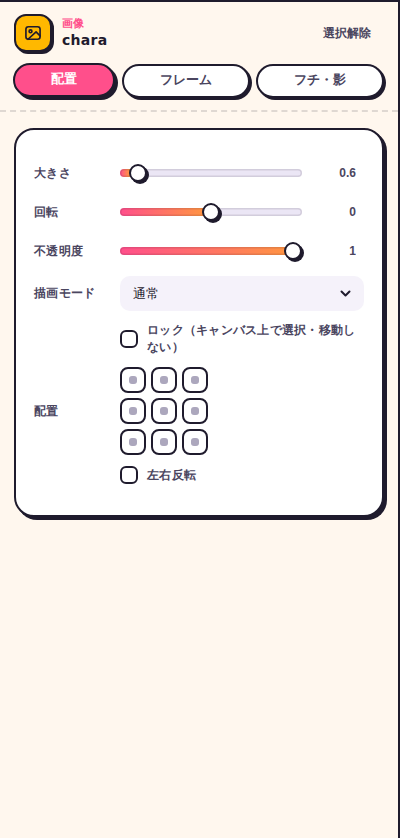
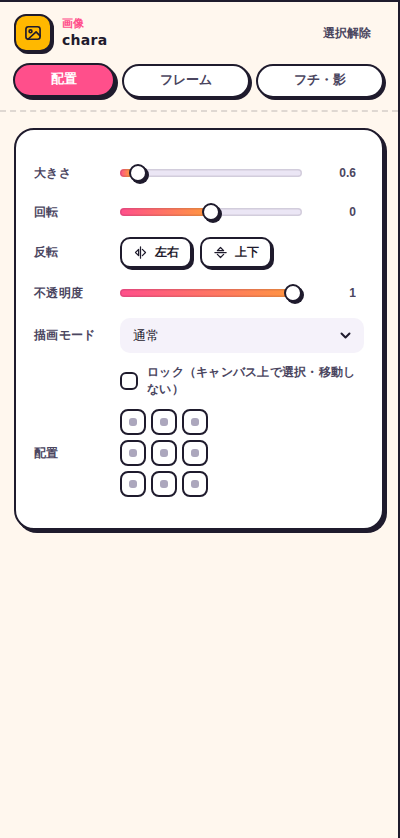
画像の反転：上下反転を追加し、左右・上下を配置タブのボタンに
- 配置タブの「回転」の下に「反転」（左右／上下）ボタン。反転中はボタンが点灯
- キーボード H（左右）・V（上下）、右クリックメニューからも反転
- 切り抜きフレーム付きでも、フレームはそのままで中の絵だけ反転（フレーム調整モードも対応）
- テスト追加（test_flip）、説明書と画像を更新

Claude-Session: https://claude.ai/code/session_017iaXbVyubLxKotPXWxBsUr

diff --git a/index.html b/index.html
@@ -11,7 +11,7 @@
 <link rel="preconnect" href="https://fonts.googleapis.com">
 <link rel="preconnect" href="https://fonts.gstatic.com" crossorigin>
 <link href="https://fonts.googleapis.com/css2?family=Inter:wght@400;500;600;700&family=M+PLUS+Rounded+1c:wght@400;500;700;800&family=Noto+Sans+JP:wght@400;700;900&display=swap" rel="stylesheet">
-<link rel="stylesheet" href="css/app.css?v=8f9c12eb">
+<link rel="stylesheet" href="css/app.css?v=99f61a45">
 </head>
 <body class="mode-thumb">
 <header class="app-head">
@@ -287,30 +287,30 @@
   <p>フォントファイル（.ttf / .otf）やプロジェクト（.json）はどこに落としてもOK</p>
 </div>
 
-<script src="js/core.js?v=8f9c12eb"></script>
-<script src="js/bind.js?v=8f9c12eb"></script>
-<script src="js/presets.js?v=8f9c12eb"></script>
-<script src="js/data/font-list.js?v=8f9c12eb"></script>
-<script src="js/fonts.js?v=8f9c12eb"></script>
-<script src="js/controls.js?v=8f9c12eb"></script>
-<script src="js/text-render.js?v=8f9c12eb"></script>
-<script src="js/preview.js?v=8f9c12eb"></script>
-<script src="js/colors.js?v=8f9c12eb"></script>
-<script src="js/history.js?v=8f9c12eb"></script>
-<script src="js/thumb/frames.js?v=8f9c12eb"></script>
-<script src="js/thumb/collage.js?v=8f9c12eb"></script>
-<script src="js/thumb/fx.js?v=8f9c12eb"></script>
-<script src="js/thumb/assets.js?v=8f9c12eb"></script>
-<script src="js/thumb/doc.js?v=8f9c12eb"></script>
-<script src="js/thumb/render.js?v=8f9c12eb"></script>
-<script src="js/thumb/overlay.js?v=8f9c12eb"></script>
-<script src="js/thumb/editmodes.js?v=8f9c12eb"></script>
-<script src="js/thumb/layers.js?v=8f9c12eb"></script>
-<script src="js/thumb/export.js?v=8f9c12eb"></script>
-<script src="js/thumb/inspector.js?v=8f9c12eb"></script>
-<script src="js/thumb/events.js?v=8f9c12eb"></script>
-<script src="js/mobile.js?v=8f9c12eb"></script>
-<script src="js/popups.js?v=8f9c12eb"></script>
-<script src="js/main.js?v=8f9c12eb"></script>
+<script src="js/core.js?v=99f61a45"></script>
+<script src="js/bind.js?v=99f61a45"></script>
+<script src="js/presets.js?v=99f61a45"></script>
+<script src="js/data/font-list.js?v=99f61a45"></script>
+<script src="js/fonts.js?v=99f61a45"></script>
+<script src="js/controls.js?v=99f61a45"></script>
+<script src="js/text-render.js?v=99f61a45"></script>
+<script src="js/preview.js?v=99f61a45"></script>
+<script src="js/colors.js?v=99f61a45"></script>
+<script src="js/history.js?v=99f61a45"></script>
+<script src="js/thumb/frames.js?v=99f61a45"></script>
+<script src="js/thumb/collage.js?v=99f61a45"></script>
+<script src="js/thumb/fx.js?v=99f61a45"></script>
+<script src="js/thumb/assets.js?v=99f61a45"></script>
+<script src="js/thumb/doc.js?v=99f61a45"></script>
+<script src="js/thumb/render.js?v=99f61a45"></script>
+<script src="js/thumb/overlay.js?v=99f61a45"></script>
+<script src="js/thumb/editmodes.js?v=99f61a45"></script>
+<script src="js/thumb/layers.js?v=99f61a45"></script>
+<script src="js/thumb/export.js?v=99f61a45"></script>
+<script src="js/thumb/inspector.js?v=99f61a45"></script>
+<script src="js/thumb/events.js?v=99f61a45"></script>
+<script src="js/mobile.js?v=99f61a45"></script>
+<script src="js/popups.js?v=99f61a45"></script>
+<script src="js/main.js?v=99f61a45"></script>
 </body>
 </html>

diff --git a/js/thumb/editmodes.js b/js/thumb/editmodes.js
@@ -15,7 +15,7 @@ const EDIT_MODES = {
     down(L, x, y){
       const G = frameGeom(L), [u, v] = frameLocal(L, x, y), px = DOC.w / tvCss / L.sc;
       const corner = [[-1, -1], [1, -1], [1, 1], [-1, 1]].some(([sx, sy]) => Math.hypot(u - sx * G.fw / 2, v - sy * G.fh / 2) < 14 * px);
-      const inImg = Math.abs((L.flip ? -u : u) + G.cxp - G.iw / 2) <= G.iw / 2 && Math.abs(v + G.cyp - G.ih / 2) <= G.ih / 2;
+      const inImg = Math.abs((L.flip ? -u : u) + G.cxp - G.iw / 2) <= G.iw / 2 && Math.abs((L.flipV ? -v : v) + G.cyp - G.ih / 2) <= G.ih / 2;
       if(!corner && !inImg) return null;
       return {sub: corner ? 'scale' : 'move', g0:G, fs0:L.frame.fs ?? 1, cx0:G.cxp / G.iw, cy0:G.cyp / G.ih, base:{x:L.x, y:L.y}, r0:Math.max(1, Math.hypot(u, v))};
     },
@@ -24,7 +24,7 @@ const EDIT_MODES = {
       // 開始時の位置を基準に計算する（画像は固定、フレームだけ動く）
       if(d.sub === 'move'){
         const [du, dv] = rotLocal(L, x - d.x0, y - d.y0);
-        L.frame.cx = r3(clamp(d.cx0 + du / L.sc * (L.flip ? -1 : 1) / G.iw, 0, 1)); L.frame.cy = r3(clamp(d.cy0 + dv / L.sc / G.ih, 0, 1));
+        L.frame.cx = r3(clamp(d.cx0 + du / L.sc * (L.flip ? -1 : 1) / G.iw, 0, 1)); L.frame.cy = r3(clamp(d.cy0 + dv / L.sc * (L.flipV ? -1 : 1) / G.ih, 0, 1));
       }else{
         const [u, v] = frameLocal(Object.assign({}, L, d.base), x, y);
         L.frame.fs = r3(clamp(d.fs0 * Math.hypot(u, v) / d.r0, 0.1, 1));
@@ -37,7 +37,7 @@ const EDIT_MODES = {
     overlay(ctx, L, f, dpr){
       const G = frameGeom(L);
       ctx.save(); ctx.translate(L.x * f, L.y * f); ctx.rotate((L.rot || 0) * PI / 180); ctx.scale(L.sc * f, L.sc * f);
-      ctx.save(); if(L.flip) ctx.scale(-1, 1); ctx.globalAlpha = 0.38; ctx.drawImage(G.A.img, -G.cxp, -G.cyp, G.iw, G.ih); ctx.restore();
+      ctx.save(); if(L.flip || L.flipV) ctx.scale(L.flip ? -1 : 1, L.flipV ? -1 : 1); ctx.globalAlpha = 0.38; ctx.drawImage(G.A.img, -G.cxp, -G.cyp, G.iw, G.ih); ctx.restore();
       const k = 1 / (L.sc * f), hw = G.fw / 2, hh = G.fh / 2;
       ctx.lineWidth = 2 * dpr * k; ctx.strokeStyle = '#ffb800'; ctx.setLineDash([7 * dpr * k, 5 * dpr * k]); ctx.strokeRect(-hw, -hh, hw * 2, hh * 2); ctx.setLineDash([]);
       ctx.strokeStyle = 'rgba(255,255,255,.7)'; ctx.lineWidth = dpr * k; ctx.beginPath(); framePath(ctx, L.frame.shape, G.fw, G.fh, L.frame.r, L.frame.seed); ctx.stroke();

diff --git a/js/thumb/inspector.js b/js/thumb/inspector.js
@@ -29,6 +29,7 @@ const CFX_ROWS = (P, S) => [
 const SEL_ROWS = [
   {pg:'base', r:'@sc', l:'大きさ', min:0.05, max:10, step:0.01},
   {pg:'base', r:'@rot', l:'回転', min:-180, max:180, step:1},
+  {pg:'base', flips:true, l:'反転', show:'@type=image'},
   {pg:'fx', c:'@p.c', l:'色', show:'@type=fx'},
   {pg:'fx', r:'@p.n', l:'本数', min:20, max:300, step:1, show:'@kind=lines'},
   {pg:'fx', r:'@p.inner', l:'中心の空き', min:0.02, max:1.5, step:0.01, show:'@kind=lines'},
@@ -83,7 +84,6 @@ const SEL_ROWS = [
   {pg:'base', r:'@bw', l:'横幅', min:100, max:1920, step:1, show:'@type=collage'},
   {pg:'base', r:'@bh', l:'高さ', min:100, max:1080, step:1, show:'@type=collage'},
   {pg:'base', btns:[['collageFill', 'monitor', '画面いっぱいにする']], show:'@type=collage'},
-  {pg:'base', chk:'@flip', l:'左右反転', show:'@type=image'},
   {pg:'frame', sub:'切り抜きフレーム', note:'図形で切り抜いて枠を付けます。形と枠のデザインは自由に組み合わせOK', show:'@type=image'},
   {pg:'frame', frpre:true, show:'@type=image'},
   {pg:'frame', shapes:true, l:'形', show:'@type=image'},
@@ -164,6 +164,7 @@ const drowPg = (r, bg) => `<div data-pg="${rowPg(r, bg)}">${drow(r)}</div>`;
 function drow(r){
   const sa = r.show ? ` data-dshow="${r.show}"` : '';
   if(r.layouts) return `<div class="row"${sa}><label>${r.l}</label><div class="seg shapes lays" data-dseg="@layout">${[2, 3, 4, 5, 6].flatMap(n => COLLAGE_LAYOUTS.filter(l => l[2](n)).map(([k, t]) => `<button data-v="${k}" data-dshow="@n=${n}" title="${t}"><img src="${collageIcon(k, n)}" alt="${t}"></button>`)).join('')}</div></div>`;
+  if(r.flips) return `<div class="row"${sa}><label>${r.l}</label><div class="crow flips"><button class="btn sm" data-flip="flip" title="左右反転（H）">${ic('fliph')}左右</button><button class="btn sm" data-flip="flipV" title="上下反転（V）">${ic('flipv')}上下</button></div></div>`;
   if(r.cells) return `<div class="cellBox"${sa}></div>`;
   if(r.cfxchips) return `<div${sa}><div class="subhead" style="margin-top:18px">ワンクリック効果</div><div class="pcats fxchips">${CELL_FX_CHIPS.map(([k, t]) => `<button data-cfx="${k}">${t}</button>`).join('')}</div></div>`;
   if(r.frpre){ const nm = Object.fromEntries(FRAME_PRESETS.map(p => [p[0], p[1]]));

diff --git a/js/thumb/layers.js b/js/thumb/layers.js
@@ -62,7 +62,8 @@ function showMenu(id, cx, cy){
     b('front', 'front', '最前面へ', 'Ctrl+Shift+]', '', i === n - 1) + b('up', 'up', '前面へ', 'Ctrl+]', '', i === n - 1) +
     b('down', 'down', '背面へ', 'Ctrl+[', '', i === 0) + b('back', 'back', '最背面へ', 'Ctrl+Shift+[', '', i === 0) + '<hr>' +
     b('dup', 'dup', '複製', 'Ctrl+D') + b('rename', 'pen', '名前を変更') + b('lock', L.locked ? 'unlock' : 'lock', L.locked ? 'ロックを解除' : 'ロック') +
-    b('eye', L.hidden ? 'eye' : 'eyeoff', L.hidden ? '表示する' : '隠す') + '<hr>' + b('del', 'trash', '削除', 'Delete', 'danger');
+    b('eye', L.hidden ? 'eye' : 'eyeoff', L.hidden ? '表示する' : '隠す') +
+    (L.type === 'image' ? '<hr>' + b('flip', 'fliph', '左右反転', 'H') + b('flipV', 'flipv', '上下反転', 'V') : '') + '<hr>' + b('del', 'trash', '削除', 'Delete', 'danger');
   m.dataset.lid = id; m.classList.add('show');
   const r = m.getBoundingClientRect();
   m.style.left = Math.min(cx, innerWidth - r.width - 8) + 'px'; m.style.top = Math.min(cy, innerHeight - r.height - 8) + 'px';
@@ -97,6 +98,7 @@ function layerAction(id, act){
   else if(act === 'front'){ DOC.layers.splice(i, 1); DOC.layers.push(L); }
   else if(act === 'back'){ DOC.layers.splice(i, 1); DOC.layers.unshift(L); }
   else if(act === 'eye') L.hidden = !L.hidden;
+  else if(act === 'flip' || act === 'flipV'){ if(L.type !== 'image') return; flipLayer(L, act); }
   else if(act === 'lock'){ L.locked = !L.locked; toast(L.locked ? `「${layerName(L)}」をロックしました（キャンバス上では選択されません）` : 'ロックを解除しました'); }
   else if(act === 'rename'){ startRename(id); return; }
   else if(act === 'dup'){
@@ -113,3 +115,10 @@ function layerAction(id, act){
   }
   syncDoc(); renderLayers(); docChanged(false);
 }
+
+// 画像の反転（key = 'flip' 左右／'flipV' 上下）。切り抜きフレームがあるときは、フレームの中の絵がその場で反転する
+function flipLayer(L, key){ L[key] = !L[key]; }
+document.addEventListener('click', e => {
+  const b = e.target.closest('[data-flip]'); const L = selLayer(); if(!b || !L || L.type !== 'image') return;
+  flipLayer(L, b.dataset.flip); syncDoc(); docChanged(false);
+});

diff --git a/js/thumb/frames.js b/js/thumb/frames.js
@@ -152,13 +152,13 @@ function frameGeom(L){
 /* フレームを動かしても、画像がキャンバス上で動かないようにレイヤーの位置を補正 */
 function frameCompensate(L, g0, base){
   const g1 = frameGeom(L); if(!g0 || !g1) return;
-  const dx = (g1.cxp - g0.cxp) * (L.flip ? -1 : 1) * L.sc, dy = (g1.cyp - g0.cyp) * L.sc, a = (L.rot || 0) * PI / 180;
+  const dx = (g1.cxp - g0.cxp) * (L.flip ? -1 : 1) * L.sc, dy = (g1.cyp - g0.cyp) * (L.flipV ? -1 : 1) * L.sc, a = (L.rot || 0) * PI / 180;
   const bx = base ? base.x : L.x, by = base ? base.y : L.y;
   L.x = bx + dx * Math.cos(a) - dy * Math.sin(a); L.y = by + dx * Math.sin(a) + dy * Math.cos(a);
 }
 function framedCanvas(L, f, live, cache){
   const A = ASSETS[L.asset], fr = L.frame, o = L.outline, need = L.sc * f;
-  const sk = JSON.stringify([L.asset, fr, o.w, o.c, L.flip]);
+  const sk = JSON.stringify([L.asset, fr, o.w, o.c, L.flip, L.flipV]);
   let e = cache.get(L.id);
   if(e && e.sk === sk && (live || Math.abs(e.k - need) / need < 0.02)) return e;
   const G = frameGeom(L), iw = G.iw, ih = G.ih;
@@ -219,7 +219,7 @@ function framedCanvas(L, f, live, cache){
     else stroke(2 * E, o.c);
   }
   x.save(); P(); x.clip();
-  if(L.flip) x.scale(-1, 1);
+  if(L.flip || L.flipV) x.scale(L.flip ? -1 : 1, L.flipV ? -1 : 1);
   x.drawImage(A.img, -G.cxp * need, -G.cyp * need, iw * need, ih * need);
   x.restore();
   if(st === 'sticker' && E > 0){ x.save(); P(); x.clip(); const g = x.createLinearGradient(-FW / 2, -FH / 2, FW * 0.1, FH * 0.1); g.addColorStop(0, 'rgba(255,255,255,.38)'); g.addColorStop(0.55, 'rgba(255,255,255,.08)'); g.addColorStop(0.56, 'rgba(255,255,255,0)'); x.fillStyle = g; x.fillRect(-FW / 2, -FH / 2, FW, FH); x.restore(); }

diff --git a/js/thumb/render.js b/js/thumb/render.js
@@ -30,13 +30,14 @@ function imageCanvas(L, f, live, cache){
   const A = ASSETS[L.asset]; if(!A) return null;
   if(L.frame && L.frame.shape && L.frame.shape !== 'none') return framedCanvas(L, f, live, cache);
   const need = L.sc * f, o = L.outline, ow = o.on ? o.w : 0;
-  const sk = [L.asset, o.on, o.w, o.c, L.flip].join('|');
+  const sk = [L.asset, o.on, o.w, o.c, L.flip, L.flipV].join('|');
   let e = cache.get(L.id);
   if(!(e && e.sk === sk && (live || Math.abs(e.k - need) / need < 0.02))){
     const iw = A.img.naturalWidth, ih = A.img.naturalHeight, r = ow * f, pad = Math.ceil(r) + 2;
     const cw = Math.max(1, Math.round(iw * need)), ch = Math.max(1, Math.round(ih * need));
     const c = mk(cw + pad * 2, ch + pad * 2), x = c.getContext('2d');
     if(L.flip){ x.translate(c.width, 0); x.scale(-1, 1); }
+    if(L.flipV){ x.translate(0, c.height); x.scale(1, -1); }
     if(r > 0){
       const t = tinted(A, o.c), n = Math.max(16, Math.min(56, Math.round(r * 1.5)));
       for(const rr of [r, r * 0.55]) for(let i = 0; i < n; i++){

diff --git a/js/core.js b/js/core.js
@@ -30,6 +30,8 @@ function toast(msg, err){
 const ICONS = {
   grid:'<rect x="3.5" y="4.5" width="17" height="15" rx="2.5"/><path d="M12 4.5v15M3.5 12h8.5"/>',
   crop:'<path d="M7 3v14h14"/><path d="M3 7h14v14"/>',
+  fliph:'<path d="M12 3v18"/><path d="M9 7 4 12l5 5z"/><path d="m15 7 5 5-5 5"/>',
+  flipv:'<path d="M3 12h18"/><path d="M7 9l5-5 5 5z"/><path d="m7 15 5 5 5-5"/>',
   dice:'<rect x="3.5" y="3.5" width="17" height="17" rx="4.5"/><circle cx="8.6" cy="8.6" r="1.2" fill="currentColor" stroke="none"/><circle cx="12" cy="12" r="1.2" fill="currentColor" stroke="none"/><circle cx="15.4" cy="15.4" r="1.2" fill="currentColor" stroke="none"/>',
   drop:'<path d="m14 7 3 3"/><path d="M16.4 4.2a2.2 2.2 0 0 1 3.2 3.2L17.5 9.5l-3-3z"/><path d="M14.5 6.5 6 15l-1 4 4-1 8.5-8.5"/>',
   image:'<rect x="3.5" y="4.5" width="17" height="15" rx="3"/><circle cx="9" cy="10" r="1.7"/><path d="m20.5 15.5-4.8-4.8L6 19.5"/>',

diff --git a/js/thumb/assets.js b/js/thumb/assets.js
@@ -1,7 +1,7 @@
 /* 楽ちんサムネメーカー：画像アセット（IndexedDBに保存）・画像や背景の追加 */
 /* ---------- 画像アセット（IndexedDBに保存） ---------- */
 // 画像レイヤーの初期値（白フチ・影・切り抜きフレームなし）
-const IMAGE_BASE = () => ({flip:false, outline:{on:true, w:10, c:'#ffffff'}, frame:FRAME_BASE(), shadow:{on:true, blur:30, y:14, a:0.45}});
+const IMAGE_BASE = () => ({flip:false, flipV:false, outline:{on:true, w:10, c:'#ffffff'}, frame:FRAME_BASE(), shadow:{on:true, blur:30, y:14, a:0.45}});
 const ASSETS = {};
 const loadImg = src => new Promise((res, rej) => { const i = new Image(); i.onload = () => res(i); i.onerror = rej; i.src = src; });
 const idbReq = r => new Promise((res, rej) => { r.onsuccess = () => res(r.result); r.onerror = () => rej(r.error); });

diff --git a/js/thumb/events.js b/js/thumb/events.js
@@ -311,6 +311,9 @@ async function openProjectFile(f){
       e.preventDefault(); const fwd = e.code === 'BracketRight';
       layerAction(L.id, e.shiftKey ? (fwd ? 'front' : 'back') : (fwd ? 'up' : 'down'));
     }
+    else if(!e.ctrlKey && !e.metaKey && !e.altKey && L.type === 'image' && (e.key === 'h' || e.key === 'H' || e.key === 'v' || e.key === 'V')){
+      e.preventDefault(); layerAction(L.id, /h/i.test(e.key) ? 'flip' : 'flipV');
+    }
     else if(e.key === 'Escape'){ hideMenu(); if(edit){ setEdit(null); return; } selectLayer(null); }
   });
 }

diff --git a/css/app.css b/css/app.css
@@ -74,6 +74,7 @@ h3 .sw{order:2;margin-left:auto}
 .adj output{font-size:11.5px;color:var(--sub);text-align:right;font-variant-numeric:tabular-nums;font-family:Inter,sans-serif;font-weight:600}
 .crow{display:flex;gap:8px;align-items:center;flex-wrap:wrap;margin:12px 0}
 .crow select{width:auto;flex:1}
+.crow.flips{margin:0;flex-wrap:nowrap}
 
 /* ---------- 入力 ---------- */
 input[type=number],input[type=text],input[type=password],input[type=search],select,textarea{

diff --git a/js/thumb/doc.js b/js/thumb/doc.js
@@ -106,6 +106,7 @@ function syncDocSoon(){ if(!syncRaf) syncRaf = requestAnimationFrame(() => { syn
 function syncDoc(except){
   DB.sync(except);
   document.querySelectorAll('[data-guide]').forEach(b => b.classList.toggle('on', !!DOC.guides[b.dataset.guide]));
+  const L = selLayer(); document.querySelectorAll('[data-flip]').forEach(b => b.classList.toggle('on', !!(L && L[b.dataset.flip])));
   renderInspector();
   renderCells();
 }

diff --git a/tests/test_flip.py b/tests/test_flip.py
@@ -1,0 +1,41 @@
+"""画像の反転：左右・上下のボタン、ショートカット（H／V）、右クリックメニュー、切り抜きフレーム付きでもその場で反転"""
+from helpers import *
+
+# 画像レイヤーだけを描いた、キャンバスの上下左右の色の合計（反転で入れ替わるかを見る）
+QUAD = """(() => { DOC.bg.hidden = true; DOC.layers.forEach(l => { l.hidden = l.type !== 'image'; }); prevCache.clear(); paintPreview(false);
+  const c = document.querySelector('#tv'), x = c.getContext('2d'), d = x.getImageData(0, 0, c.width, c.height).data, W = c.width, H = c.height, s = [0, 0, 0, 0];
+  for(let y = 0; y < H; y += 3) for(let i = 0; i < W; i += 3){ const k = (y * W + i) * 4, v = d[k] + d[k + 1] * 2 + d[k + 2] * 3; s[(i < W / 2 ? 0 : 1) + (y < H / 2 ? 0 : 2)] += v * d[k + 3] / 255; }
+  return s; })()"""
+close_to = lambda a, b: abs(a - b) <= max(a, b) * 0.03 + 50
+
+async def run(p):
+    pg = await open_app(p)
+    await pg.set_input_files('#imgfile', [IMG['night.jpg']]); await settle(pg, 1500)
+    await pg.evaluate("(() => { const L = DOC.layers.find(l => l.type === 'image'); Object.assign(L, {x:960, y:540, sc:1080 / ASSETS[L.asset].img.naturalHeight}); L.outline.on = false; L.shadow.on = false; selectLayer(L.id); docChanged(false); })()")
+    await page(pg, 'lay-base'); await settle(pg, 600)
+    a = await pg.evaluate(QUAD)
+    # 左右（ボタン）
+    await pg.click('[data-flip="flip"]'); await settle(pg, 500)
+    assert await pg.evaluate("selLayer().flip") is True and await pg.is_visible('[data-flip="flip"].on'), '左右反転ボタンが効かない'
+    b = await pg.evaluate(QUAD)
+    assert close_to(a[0], b[1]) and close_to(a[1], b[0]) and not close_to(a[0], a[1]), f'左右が入れ替わっていない {a} {b}'
+    # 上下（キー V）
+    await pg.keyboard.press('v'); await settle(pg, 500)
+    assert await pg.evaluate("selLayer().flipV") is True, 'V キーで上下反転しない'
+    c = await pg.evaluate(QUAD)
+    assert close_to(b[0], c[2]) and close_to(b[2], c[0]), f'上下が入れ替わっていない {b} {c}'
+    # H キーで左右を戻す・右クリックメニューで上下を戻す
+    await pg.keyboard.press('h'); await settle(pg, 300)
+    await pg.evaluate("showMenu(DOC.sel, 200, 200)"); await pg.click('#ctxmenu [data-ma="flipV"]'); await settle(pg, 500)
+    assert await pg.evaluate("[selLayer().flip, selLayer().flipV]") == [False, False]
+    assert all(close_to(x, y) for x, y in zip(a, await pg.evaluate(QUAD))), '元に戻らない'
+    # 切り抜きフレーム付き：位置と大きさは変わらず中身だけ反転
+    await pg.evaluate("(() => { Object.assign(selLayer().frame, {shape:'circle', style:'solid'}); docChanged(false); })()"); await settle(pg, 600)
+    pos = await pg.evaluate("[selLayer().x, selLayer().y, JSON.stringify(selLayer().frame)]")
+    await pg.click('[data-flip="flip"]'); await pg.click('[data-flip="flipV"]'); await settle(pg, 600)
+    assert await pg.evaluate("[selLayer().x, selLayer().y, JSON.stringify(selLayer().frame)]") == pos, 'フレーム付きで反転すると位置やフレームが変わる'
+    # フレーム調整モードでも落ちない
+    await pg.evaluate("setEdit({kind:'frame', id:DOC.sel})"); await settle(pg, 400); await pg.evaluate("setEdit(null)")
+    # 古い保存データ（flipV なし）
+    assert await pg.evaluate("(() => { const d = JSON.parse(JSON.stringify(DOC)); d.layers.forEach(l => delete l.flipV); return normalizeDoc(d).layers.find(l => l.type === 'image').flipV === false; })()")
+    await close(pg)
